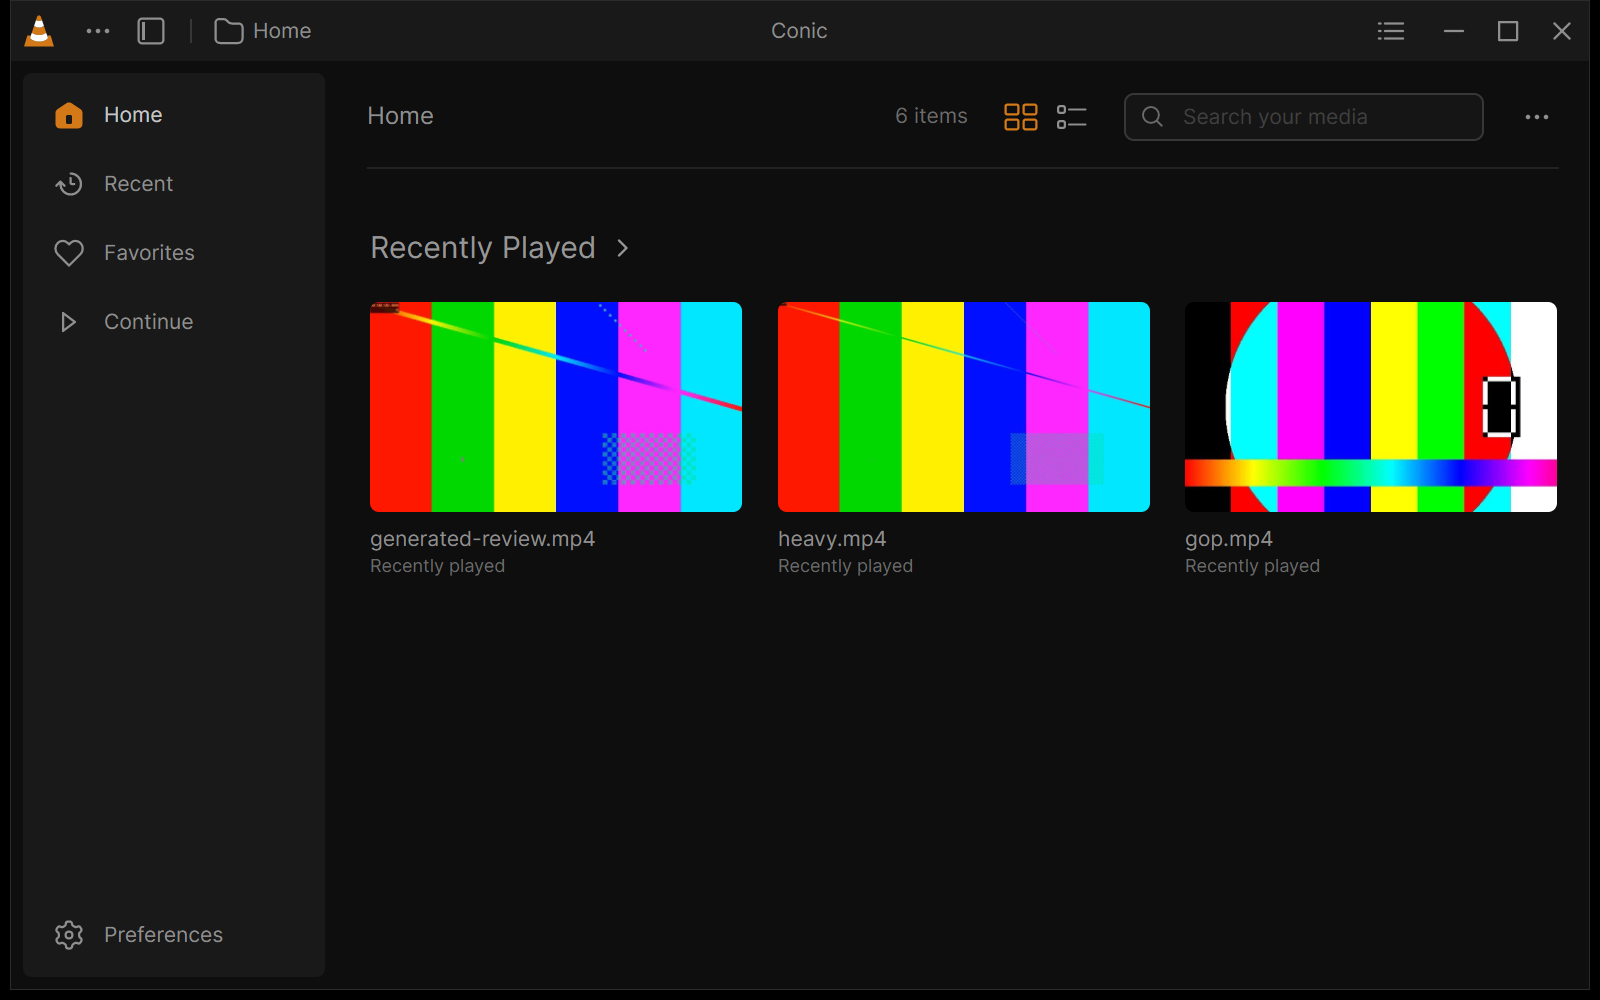
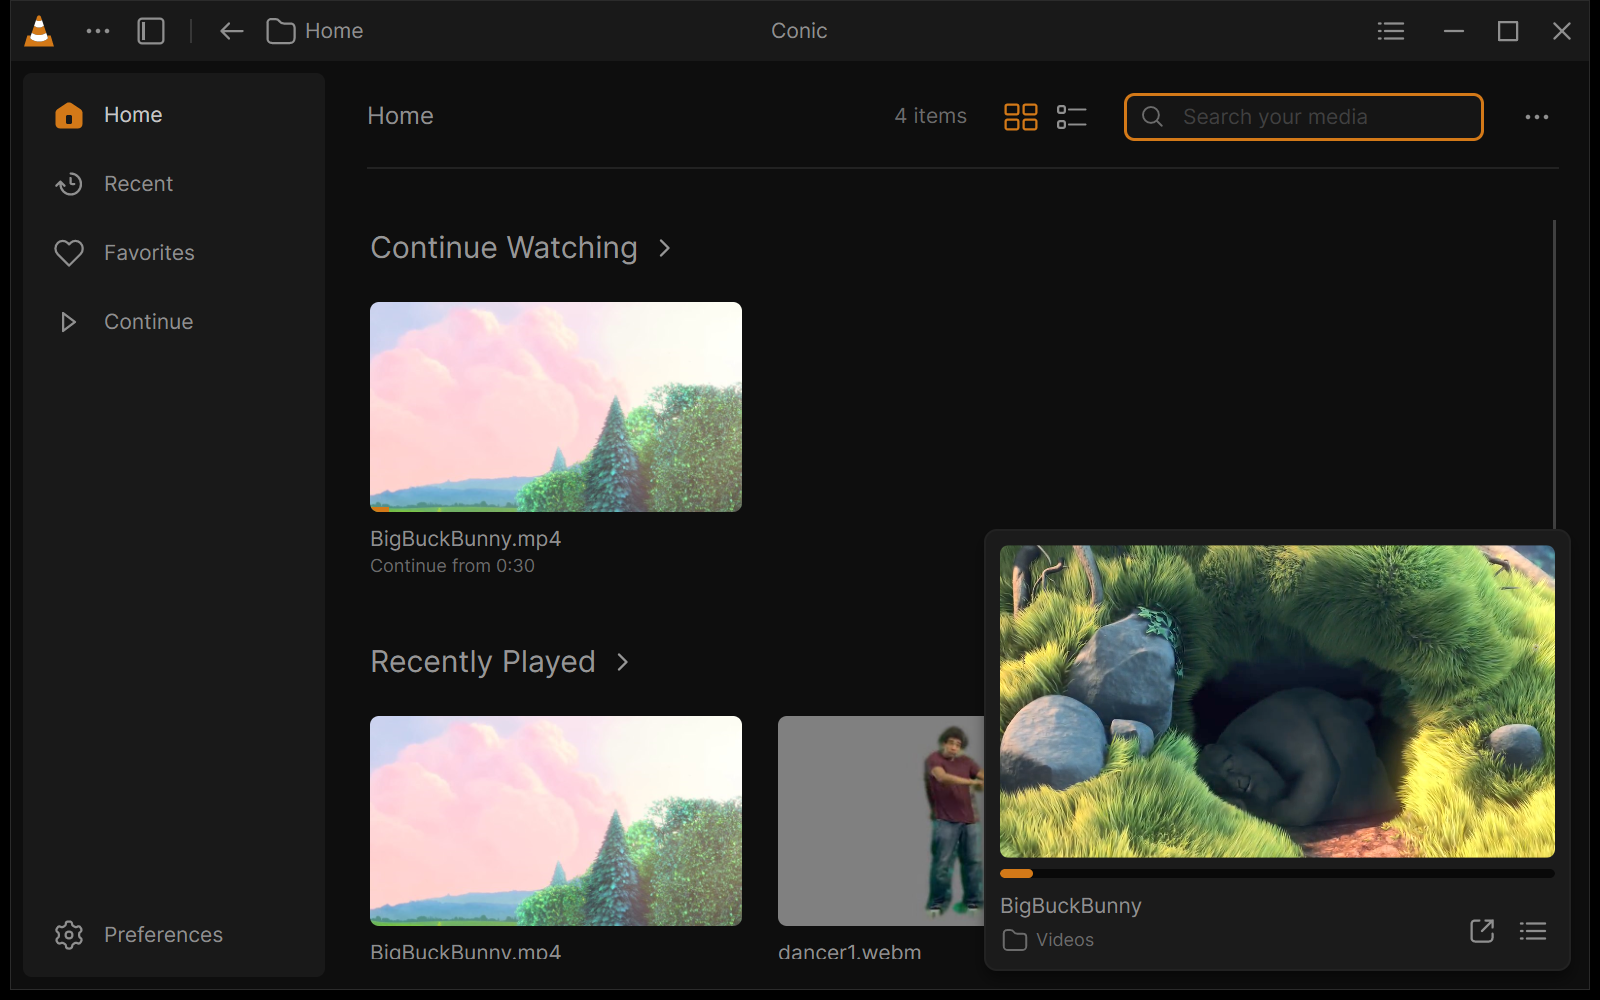
docs: show the live mini player and say why Conic is a port
Home's screenshot now has the mini player playing the video, the Features
list and the video section say the card is a second visual on the
player's drawing surface, and the diagram draws both visuals. The
starting point says what VLC 3's Qt module is (157 C++ files, about
48,000 lines and 21 forms at 3.0.24) and why replacing it while keeping
the core is the port.

diff --git a/README.md b/README.md
@@ -41,7 +41,7 @@ Conic keeps VLC 3 as it is (the same engine, codecs, filters and options) and
 rebuilds the desktop app around it:
 
 - **Home**, with recent media, favorites and saved positions, and a floating
-  mini player while something plays.
+  mini player that keeps playing the video live.
 - **The player**, with a docked control bar and side panels for the queue,
   audio, video, subtitles, chapters and media information.
 - **Picture in picture**, an always-on-top compact player.
@@ -52,7 +52,7 @@ rebuilds the desktop app around it:
 - **The system's media controls**: media keys, Windows' media flyout and
   taskbar buttons, macOS Now Playing, and MPRIS on Linux.
 
-![Conic's Home, with recently played media](docs/images/home.png)
+![Conic's Home, with recently played media and the mini player playing the video](docs/images/home.png)
 
 | | |
 | --- | --- |
@@ -94,6 +94,16 @@ against 3.0.24. VLC 3 is a C codebase whose desktop interface is a Qt 5 module
 (`modules/gui/qt`) loaded by libvlccore like any other plugin. Qt 5 itself has
 been out of support since 2023. The interface talks to the core through VLC's
 internal objects and variables, not through the public LibVLC API.
+
+That Qt module is the application people know as VLC: every window, menu and
+dialog, the playlist and the preferences. At 3.0.24 it is 157 C++ files,
+about 48,000 lines, plus 21 Qt Designer forms. The core and its plugins below
+it play the media. Porting VLC's desktop app to Avalonia therefore means
+replacing that module and keeping the core, and that is what Conic does: its
+interface takes the Qt module's place and drives the core through the same
+internal objects and variables, from a control interface plugin of its own,
+instead of wrapping a player library. Everything a user sees and touches was
+ported; the decoding was not, because it was never part of the interface.
 
 ### What it cost
 
@@ -170,7 +180,9 @@ menus over the video. Conic's video output plugin instead hands each decoded
 frame to Avalonia's compositor as a GPU texture: a D3D11 keyed-mutex shared
 texture on Windows, an IOSurface on macOS, a DMA-BUF on Linux. Video becomes
 one more visual in the window, so z-order, transparency and animation just
-work.
+work. It can also be shown twice: Home's mini player is a second visual on
+the player's drawing surface, so the video keeps playing in the card with no
+second decode and no copy.
 
 ```mermaid
 flowchart LR
@@ -181,7 +193,8 @@ flowchart LR
     win -- "D3D11 shared handle" --> avalonia["Avalonia compositor<br/>ICompositionGpuInterop"]
     mac -- "IOSurfaceRef" --> avalonia
     linux -- "DMA-BUF fd" --> avalonia
-    avalonia --> window["One visual, under the<br/>controls, panels and menus"]
+    avalonia --> window["The player's visual, under the<br/>controls, panels and menus"]
+    avalonia --> mini["A second visual on the same<br/>surface: Home's mini player"]
 ```
 
 The three imports differ only in the handle and how the compositor waits
